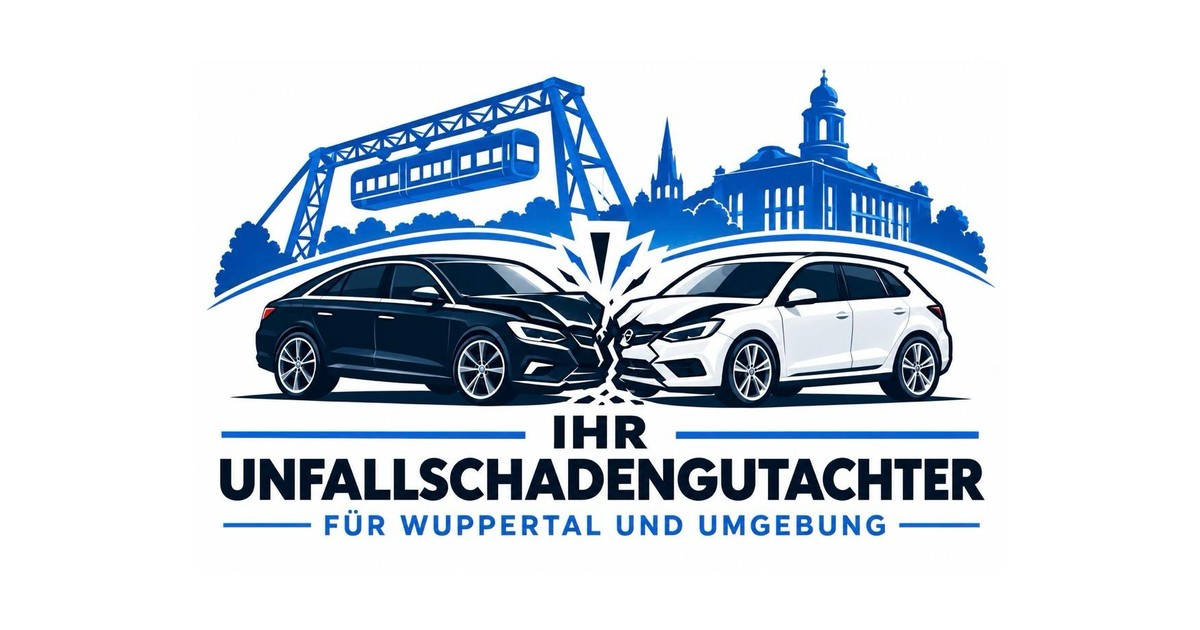
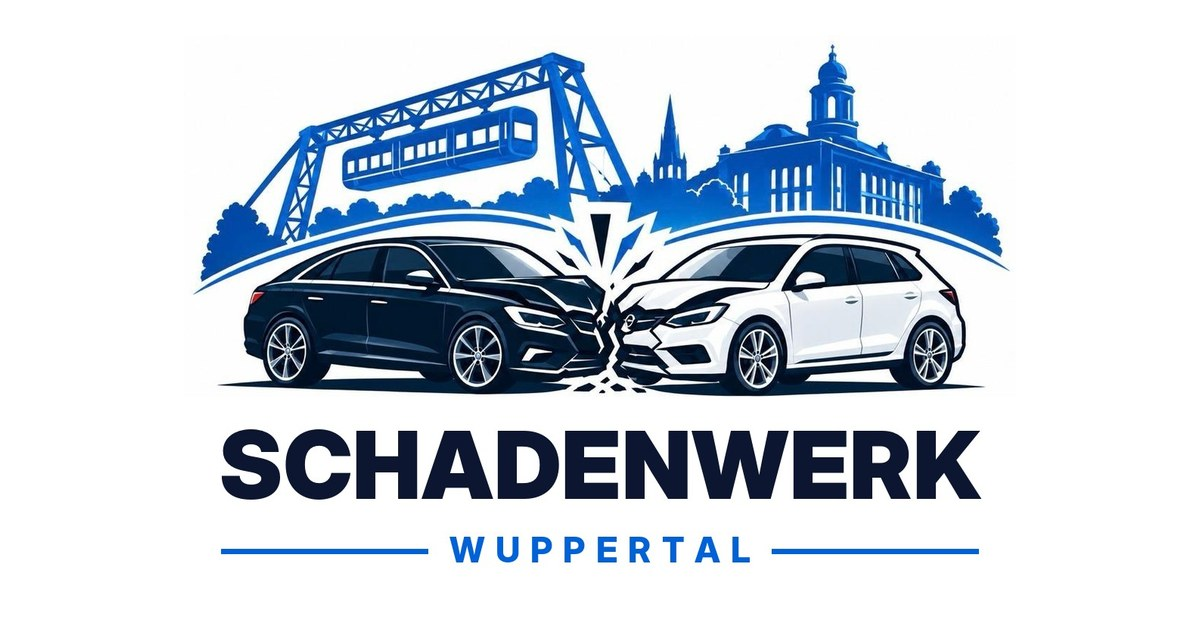
Rebrand to Schadenwerk Wuppertal and tighten content
- New logo with SCHADENWERK / WUPPERTAL wordmark, regenerated og-image
- Brand name in titles, header, footer, schema.org (logo, alternateName), manifest,
  llms.txt and legal pages; Stefan Schürmann stays as owner
- Hide placeholder reviews until real Google reviews exist
- Remove duplicate stats strip, drop meta keywords
- Place area map pins by real direction and distance from Wuppertal
- Make skip link usable (visible on keyboard focus)

Claude-Session: https://claude.ai/code/session_012dxYJcXa1b1C1BzBGQBLUm

Changed region(s): [[0.1542, 0.0603, 0.8325, 0.9048]]

diff --git a/index.html b/index.html
@@ -12,22 +12,21 @@
 })();
 </script>
 <meta name="viewport" content="width=device-width, initial-scale=1, viewport-fit=cover">
-<title>Kfz-Gutachter Wuppertal | Unabhängiges Unfallgutachten von Stefan Schürmann</title>
-<meta name="description" content="Unabhängiger Kfz-Sachverständiger für Wuppertal, Solingen, Remscheid, Velbert, Mettmann und die gesamte Umgebung. Unfallgutachten vor Ort, digital & schnell, plus Kostenvoranschlag (KVA) für Versicherungen. Bei unverschuldetem Unfall in der Regel kostenfrei für Sie.">
-<meta name="keywords" content="Kfz-Gutachter Wuppertal, Unfallgutachten Wuppertal, Kfz-Sachverständiger Wuppertal, unabhängiger Gutachter Unfall, Sachverständiger Solingen, Sachverständiger Remscheid, Kostenvoranschlag Versicherung KVA, Kfz-Sachverständiger Mettmann">
+<title>Schadenwerk Wuppertal | Unabhängiger Kfz-Gutachter für Unfallschäden</title>
+<meta name="description" content="Schadenwerk Wuppertal: unabhängiger Kfz-Sachverständiger für Wuppertal, Solingen, Remscheid, Velbert, Mettmann und die gesamte Umgebung. Unfallgutachten vor Ort, digital & schnell, plus Kostenvoranschlag (KVA) für Versicherungen. Bei unverschuldetem Unfall in der Regel kostenfrei für Sie.">
 <meta name="robots" content="index, follow, max-image-preview:large">
 <meta name="author" content="Stefan Schürmann">
 <link rel="canonical" href="https://schadenwerk-wuppertal.de/">
 
 <meta property="og:type" content="website">
-<meta property="og:site_name" content="Stefan Schürmann, Kfz-Sachverständiger">
-<meta property="og:title" content="Kfz-Gutachter Wuppertal | Unabhängiges Unfallgutachten">
+<meta property="og:site_name" content="Schadenwerk Wuppertal">
+<meta property="og:title" content="Schadenwerk Wuppertal | Unabhängiger Kfz-Gutachter">
 <meta property="og:description" content="Unabhängiger Kfz-Sachverständiger für Wuppertal und Umgebung. Schnell vor Ort, Gutachten digital, bei unverschuldetem Unfall in der Regel kostenfrei.">
 <meta property="og:url" content="https://schadenwerk-wuppertal.de/">
 <meta property="og:image" content="https://schadenwerk-wuppertal.de/assets/img/og-image.jpg">
 <meta property="og:locale" content="de_DE">
 <meta name="twitter:card" content="summary_large_image">
-<meta name="twitter:title" content="Kfz-Gutachter Wuppertal | Unabhängiges Unfallgutachten">
+<meta name="twitter:title" content="Schadenwerk Wuppertal | Unabhängiger Kfz-Gutachter">
 <meta name="twitter:image" content="https://schadenwerk-wuppertal.de/assets/img/og-image.jpg">
 <meta name="geo.region" content="DE-NW">
 <meta name="geo.placename" content="Wuppertal">
@@ -47,9 +46,11 @@
 {
   "@context": "https://schema.org",
   "@type": ["LocalBusiness", "AutomotiveBusiness"],
-  "name": "Stefan Schürmann, Kfz-Sachverständiger",
+  "name": "Schadenwerk Wuppertal",
+  "alternateName": "Schadenwerk Wuppertal, Kfz-Sachverständiger Stefan Schürmann",
   "description": "Unabhängiger Kfz-Sachverständiger mit 20 Jahren Kfz-Erfahrung. Unfallgutachten vor Ort bei Privatpersonen und Werkstätten in Wuppertal und Umgebung, digitale Gutachtenübermittlung.",
   "image": "https://schadenwerk-wuppertal.de/assets/img/og-image.jpg",
+  "logo": "https://schadenwerk-wuppertal.de/assets/img/logo-brand.jpg",
   "url": "https://schadenwerk-wuppertal.de/",
   "telephone": "+4915120474428",
   "email": "gutachten.wuppertal@yahoo.de",
@@ -85,7 +86,7 @@
 <body class="is-loading">
 
 <div class="preloader" aria-hidden="true">
-  <div class="preloader-mark"><span>Stefan Schürmann</span></div>
+  <div class="preloader-mark"><span>Schadenwerk</span></div>
   <div class="preloader-bar"><i></i></div>
 </div>
 
@@ -94,7 +95,7 @@
 <div class="cursor-dot"></div>
 <div class="cursor-ring"></div>
 
-<a href="#main" class="skip-link" style="position:absolute;left:-9999px;">Zum Inhalt springen</a>
+<a href="#main" class="skip-link">Zum Inhalt springen</a>
 
 <div class="topbar">
   <div class="container">
@@ -109,8 +110,8 @@
 <header class="site-header">
   <div class="container nav">
     <a href="#top" class="brand">
-      <img src="assets/img/logo-brand.jpg" alt="Logo Stefan Schürmann, Kfz-Sachverständiger" class="brand-logo" width="63" height="40">
-      <span>Stefan Schürmann<small>Kfz-Sachverständiger · Wuppertal</small></span>
+      <img src="assets/img/logo-brand.jpg" alt="Logo Schadenwerk Wuppertal" class="brand-logo" width="59" height="40">
+      <span>Schadenwerk<small>Kfz-Gutachten · Wuppertal</small></span>
     </a>
     <div class="nav-actions">
       <button class="theme-toggle" type="button" aria-label="Hell-/Dunkelmodus umschalten" aria-pressed="false">
@@ -148,7 +149,7 @@
     </div>
   </div>
   <div class="container nav-overlay-foot">
-    <span>© <span id="year">2026</span> Stefan Schürmann</span>
+    <span>© <span id="year2">2026</span> Schadenwerk Wuppertal</span>
     <span>Wuppertal &amp; Umgebung</span>
   </div>
 </div>
@@ -212,7 +213,7 @@
 <section class="car-showcase" id="showcase">
   <div class="container">
     <div class="head center" data-gsap style="margin-left:auto;margin-right:auto;">
-      <img class="brand-seal" src="assets/img/logo-brand.jpg" alt="Logo: Ihr Unfallschadengutachter für Wuppertal und Umgebung" width="280" height="178">
+      <img class="brand-seal" src="assets/img/logo-brand.jpg" alt="Logo Schadenwerk Wuppertal" width="280" height="188">
       <span class="tag" style="justify-content:center;">Der Ernstfall</span>
       <h2>Jeder Unfall hinterlässt Spuren.</h2>
       <p style="margin-left:auto;margin-right:auto;">Genau in diesem Moment beginnt meine Arbeit: jede Schadensstelle unabhängig dokumentieren und markieren, bis ins Detail. Scrollen Sie weiter.</p>
@@ -281,18 +282,6 @@
         <h3>KVA für Versicherungen</h3>
         <p>Kostenvoranschlag für Versicherungen bei kleineren Schäden, schnell und nachvollziehbar kalkuliert.</p>
       </div>
-    </div>
-  </div>
-</section>
-
-<!-- ===== Stats ===== -->
-<section class="section-tight section-line">
-  <div class="container">
-    <div class="stats-strip">
-      <div class="stat" data-gsap style="--delay:0s"><div class="num"><span data-counter="20">0</span>+</div><p>Jahre Erfahrung im Kfz-Bereich</p></div>
-      <div class="stat" data-gsap><div class="num"><span data-counter="100">0</span>%</div><p>Unabhängig &amp; neutral</p></div>
-      <div class="stat" data-gsap><div class="num"><span data-counter="14">0</span></div><p>Städte im Einsatzgebiet</p></div>
-      <div class="stat" data-gsap><div class="num"><span data-counter="24">0</span>h</div><p>meist schnelle Rückmeldung</p></div>
     </div>
   </div>
 </section>
@@ -411,7 +400,7 @@
     <div class="about-copy" data-gsap="right">
       <span class="tag">Über mich</span>
       <h2 style="font-family:var(--font-display);font-weight:600;font-size:clamp(2rem,3.6vw,2.8rem);line-height:1.14;letter-spacing:-0.02em;margin-bottom:24px;">Seit 20 Jahren im Kfz-Bereich zu Hause.</h2>
-      <p>Ich bin Stefan Schürmann und seit 20 Jahren im Kfz-Bereich tätig. Mit diesem Wissen mache ich mich jetzt als unabhängiger Kfz-Sachverständiger selbstständig, mit dem klaren Ziel, Privatpersonen, Werkstätten und Kanzleien in Wuppertal und Umgebung einen schnellen, unkomplizierten und persönlichen Gutachterservice zu bieten.</p>
+      <p>Ich bin Stefan Schürmann, Inhaber von Schadenwerk Wuppertal, und seit 20 Jahren im Kfz-Bereich tätig. Mit diesem Wissen bin ich jetzt als unabhängiger Kfz-Sachverständiger selbstständig, mit dem klaren Ziel, Privatpersonen, Werkstätten und Kanzleien in Wuppertal und Umgebung einen schnellen, unkomplizierten und persönlichen Gutachterservice zu bieten.</p>
       <p>Mir ist wichtig, dass Sie sich um möglichst wenig selbst kümmern müssen: Ich komme zur Werkstatt oder direkt zu Ihnen, übernehme die vollständige Besichtigung und liefere das fertige Gutachten digital.</p>
       <ul class="about-points">
         <li><svg width="18" height="18" viewBox="0 0 24 24" fill="none" stroke="currentColor" stroke-width="2.5"><polyline points="20 6 9 17 4 12"/></svg> 20 Jahre Kfz-Erfahrung</li>
@@ -451,25 +440,26 @@
     <div class="area-map" data-gsap="right">
       <div class="area-ring"></div><div class="area-ring r2"></div><div class="area-ring r3"></div>
       <div class="area-center">Wuppertal<span>Basis</span></div>
-      <span class="area-pin area-pin-near" style="top:27%;left:50%;">Velbert</span>
-      <span class="area-pin area-pin-near" style="top:39%;left:70%;">Schwelm</span>
-      <span class="area-pin area-pin-near" style="top:62%;left:70%;">Remscheid</span>
-      <span class="area-pin area-pin-near" style="top:73%;left:50%;">Haan</span>
-      <span class="area-pin area-pin-near" style="top:62%;left:30%;">Sprockhövel</span>
-      <span class="area-pin area-pin-near" style="top:39%;left:30%;">Wülfrath</span>
-      <span class="area-pin area-pin-far" style="top:17%;left:66%;">Solingen</span>
-      <span class="area-pin area-pin-far" style="top:42%;left:86%;">Hilden</span>
-      <span class="area-pin area-pin-far" style="top:73%;left:79%;">Mettmann</span>
-      <span class="area-pin area-pin-far" style="top:87%;left:50%;">Heiligenhaus</span>
-      <span class="area-pin area-pin-far" style="top:73%;left:21%;">Radevormwald</span>
-      <span class="area-pin area-pin-far" style="top:42%;left:14%;">Hattingen</span>
-      <span class="area-pin area-pin-far" style="top:17%;left:34%;">Leverkusen</span>
+      <span class="area-pin area-pin-near" style="top:22%;left:36%;">Velbert</span>
+      <span class="area-pin area-pin-near" style="top:40%;left:26%;">Wülfrath</span>
+      <span class="area-pin area-pin-near" style="top:52%;left:16%;">Mettmann</span>
+      <span class="area-pin area-pin-near" style="top:62%;left:30%;">Haan</span>
+      <span class="area-pin area-pin-near" style="top:76%;left:40%;">Solingen</span>
+      <span class="area-pin area-pin-near" style="top:72%;left:60%;">Remscheid</span>
+      <span class="area-pin area-pin-near" style="top:42%;left:76%;">Schwelm</span>
+      <span class="area-pin area-pin-far" style="top:12%;left:54%;">Hattingen</span>
+      <span class="area-pin area-pin-far" style="top:22%;left:70%;">Sprockhövel</span>
+      <span class="area-pin area-pin-far" style="top:26%;left:18%;">Heiligenhaus</span>
+      <span class="area-pin area-pin-far" style="top:74%;left:14%;">Hilden</span>
+      <span class="area-pin area-pin-far" style="top:92%;left:30%;">Leverkusen</span>
+      <span class="area-pin area-pin-far" style="top:64%;left:82%;">Radevormwald</span>
     </div>
   </div>
 </section>
 
 <!-- ===== Reviews ===== -->
-<section id="bewertungen" class="section-line">
+<!-- Bewertungen: bis echte Google-Rezensionen vorliegen ausgeblendet (hidden entfernen zum Einblenden) -->
+<section id="bewertungen" class="section-line" hidden>
   <div class="container">
     <div class="head center" style="margin-left:auto;margin-right:auto;" data-gsap>
       <span class="tag" style="justify-content:center;">Bewertungen</span>
@@ -595,15 +585,15 @@
     </div>
     <div class="footer-grid">
       <div>
-        <div class="footer-brand"><img src="assets/img/logo-brand.jpg" alt="Logo Stefan Schürmann, Kfz-Sachverständiger" class="brand-logo">Stefan Schürmann</div>
-        <p style="color:var(--muted);max-width:260px;line-height:1.7;">Unabhängiger Kfz-Sachverständiger für Wuppertal und Umgebung.</p>
+        <div class="footer-brand"><img src="assets/img/logo-brand.jpg" alt="Logo Schadenwerk Wuppertal" class="brand-logo">Schadenwerk Wuppertal</div>
+        <p style="color:var(--muted);max-width:260px;line-height:1.7;">Unabhängige Kfz-Gutachten nach Unfallschäden für Wuppertal und Umgebung. Inhaber: Stefan Schürmann.</p>
       </div>
       <div class="footer-col"><h4>Leistungen</h4><ul><li><a href="#leistungen">Unfallgutachten</a></li><li><a href="#ablauf">Ablauf</a></li><li><a href="#zielgruppen">Zielgruppen</a></li></ul></div>
       <div class="footer-col"><h4>Unternehmen</h4><ul><li><a href="#ueber-mich">Über mich</a></li><li><a href="#einsatzgebiet">Einsatzgebiet</a></li><li><a href="#kontakt">Kontakt</a></li></ul></div>
       <div class="footer-col"><h4>Rechtliches</h4><ul><li><a href="impressum.html">Impressum</a></li><li><a href="datenschutz.html">Datenschutz</a></li></ul></div>
     </div>
     <div class="footer-bottom">
-      <span>© <span id="year">2026</span> Stefan Schürmann, Kfz-Sachverständiger</span>
+      <span>© <span id="year">2026</span> Schadenwerk Wuppertal · Inh. Stefan Schürmann</span>
       <span>Wuppertal &amp; Umgebung</span>
       <span class="footer-credit">Powered by Wasteland Interactive</span>
     </div>

diff --git a/datenschutz.html b/datenschutz.html
@@ -3,7 +3,7 @@
 <head>
 <meta charset="UTF-8">
 <meta name="viewport" content="width=device-width, initial-scale=1">
-<title>Datenschutzerklärung | Stefan Schürmann, Kfz-Sachverständiger</title>
+<title>Datenschutzerklärung | Schadenwerk Wuppertal</title>
 <meta name="robots" content="noindex, follow">
 <link rel="canonical" href="https://schadenwerk-wuppertal.de/datenschutz.html">
 <link rel="icon" href="assets/img/favicon-32.png" sizes="32x32" type="image/png">
@@ -15,8 +15,8 @@
 <header class="site-header is-scrolled">
   <div class="container nav">
     <a href="index.html" class="brand">
-      <img src="assets/img/logo-brand.jpg" alt="Logo Stefan Schürmann, Kfz-Sachverständiger" class="brand-logo" width="63" height="40">
-      <span>Stefan Schürmann<small>Kfz-Sachverständiger · Wuppertal</small></span>
+      <img src="assets/img/logo-brand.jpg" alt="Logo Schadenwerk Wuppertal" class="brand-logo" width="59" height="40">
+      <span>Schadenwerk<small>Kfz-Gutachten · Wuppertal</small></span>
     </a>
     <div class="nav-actions">
       <span class="magnetic-wrap"><a href="tel:+4915120474428" class="btn btn-line btn-sm">Jetzt anrufen</a></span>
@@ -33,7 +33,7 @@
   <div class="legal-body container">
     <div class="legal-content">
       <h2>1. Verantwortlicher</h2>
-      <p>Stefan Schürmann<br><span class="legal-placeholder">Straße und Hausnummer einfügen</span><br><span class="legal-placeholder">PLZ</span> Wuppertal<br>E-Mail: <a href="mailto:gutachten.wuppertal@yahoo.de">gutachten.wuppertal@yahoo.de</a><br>Telefon: <a href="tel:+4915120474428">+49 151 20474428</a></p>
+      <p>Schadenwerk Wuppertal<br>Inhaber: Stefan Schürmann<br><span class="legal-placeholder">Straße und Hausnummer einfügen</span><br><span class="legal-placeholder">PLZ</span> Wuppertal<br>E-Mail: <a href="mailto:gutachten.wuppertal@yahoo.de">gutachten.wuppertal@yahoo.de</a><br>Telefon: <a href="tel:+4915120474428">+49 151 20474428</a></p>
 
       <h2>2. Hosting</h2>
       <p>Diese Website wird auf einem eigenen Server betrieben. Beim Aufruf der Website verarbeitet der Webserver automatisch technische Zugriffsdaten (IP-Adresse, Datum und Uhrzeit, aufgerufene Seite, Browser-Kennung) in Server-Logfiles. Die IP-Adresse wird dabei nur gekürzt (anonymisiert) gespeichert. Dies dient dem sicheren und stabilen Betrieb auf Grundlage unseres berechtigten Interesses (Art. 6 Abs. 1 lit. f DSGVO). Die Logfiles werden regelmäßig automatisch überschrieben. <span class="legal-placeholder">Name und Anschrift des Rechenzentrums/Server-Anbieters ergänzen.</span></p>
@@ -65,7 +65,7 @@
 
 <footer class="site-footer" style="padding-top:0;">
   <div class="container footer-bottom">
-    <span>© <span id="year">2026</span> Stefan Schürmann</span>
+    <span>© <span id="year">2026</span> Schadenwerk Wuppertal</span>
     <span><a href="index.html">Zur Startseite</a> · <a href="impressum.html">Impressum</a></span>
     <span class="footer-credit">Powered by Wasteland Interactive</span>
   </div>

diff --git a/impressum.html b/impressum.html
@@ -3,7 +3,7 @@
 <head>
 <meta charset="UTF-8">
 <meta name="viewport" content="width=device-width, initial-scale=1">
-<title>Impressum | Stefan Schürmann, Kfz-Sachverständiger</title>
+<title>Impressum | Schadenwerk Wuppertal</title>
 <meta name="robots" content="noindex, follow">
 <link rel="canonical" href="https://schadenwerk-wuppertal.de/impressum.html">
 <link rel="icon" href="assets/img/favicon-32.png" sizes="32x32" type="image/png">
@@ -15,8 +15,8 @@
 <header class="site-header is-scrolled">
   <div class="container nav">
     <a href="index.html" class="brand">
-      <img src="assets/img/logo-brand.jpg" alt="Logo Stefan Schürmann, Kfz-Sachverständiger" class="brand-logo" width="63" height="40">
-      <span>Stefan Schürmann<small>Kfz-Sachverständiger · Wuppertal</small></span>
+      <img src="assets/img/logo-brand.jpg" alt="Logo Schadenwerk Wuppertal" class="brand-logo" width="59" height="40">
+      <span>Schadenwerk<small>Kfz-Gutachten · Wuppertal</small></span>
     </a>
     <div class="nav-actions">
       <span class="magnetic-wrap"><a href="tel:+4915120474428" class="btn btn-line btn-sm">Jetzt anrufen</a></span>
@@ -33,7 +33,7 @@
   <div class="legal-body container">
     <div class="legal-content">
       <h2>Diensteanbieter</h2>
-      <p>Stefan Schürmann<br>Kfz-Sachverständigenbüro <span class="legal-placeholder">Rechtsform ergänzen</span><br><span class="legal-placeholder">Straße und Hausnummer einfügen</span><br><span class="legal-placeholder">PLZ</span> Wuppertal<br>Deutschland</p>
+      <p>Schadenwerk Wuppertal<br>Inhaber: Stefan Schürmann <span class="legal-placeholder">Rechtsform ergänzen</span><br><span class="legal-placeholder">Straße und Hausnummer einfügen</span><br><span class="legal-placeholder">PLZ</span> Wuppertal<br>Deutschland</p>
 
       <h2>Kontakt</h2>
       <p>Telefon: <a href="tel:+4915120474428">+49 151 20474428</a><br>E-Mail: <a href="mailto:gutachten.wuppertal@yahoo.de">gutachten.wuppertal@yahoo.de</a></p>
@@ -61,7 +61,7 @@
 
 <footer class="site-footer" style="padding-top:0;">
   <div class="container footer-bottom">
-    <span>© <span id="year">2026</span> Stefan Schürmann</span>
+    <span>© <span id="year">2026</span> Schadenwerk Wuppertal</span>
     <span><a href="index.html">Zur Startseite</a> · <a href="datenschutz.html">Datenschutz</a></span>
     <span class="footer-credit">Powered by Wasteland Interactive</span>
   </div>

diff --git a/404.html b/404.html
@@ -3,7 +3,7 @@
 <head>
 <meta charset="UTF-8">
 <meta name="viewport" content="width=device-width, initial-scale=1">
-<title>Seite nicht gefunden | Stefan Schürmann, Kfz-Sachverständiger</title>
+<title>Seite nicht gefunden | Schadenwerk Wuppertal</title>
 <meta name="robots" content="noindex">
 <link rel="icon" href="/assets/img/favicon-32.png" sizes="32x32" type="image/png">
 <link rel="stylesheet" href="/css/fonts.css">
@@ -14,8 +14,8 @@
 <header class="site-header is-scrolled">
   <div class="container nav">
     <a href="/" class="brand">
-      <img src="/assets/img/logo-brand.jpg" alt="Logo Stefan Schürmann, Kfz-Sachverständiger" class="brand-logo" width="63" height="40">
-      <span>Stefan Schürmann<small>Kfz-Sachverständiger · Wuppertal</small></span>
+      <img src="/assets/img/logo-brand.jpg" alt="Logo Schadenwerk Wuppertal" class="brand-logo" width="59" height="40">
+      <span>Schadenwerk<small>Kfz-Gutachten · Wuppertal</small></span>
     </a>
     <div class="nav-actions">
       <span class="magnetic-wrap"><a href="tel:+4915120474428" class="btn btn-line btn-sm">Jetzt anrufen</a></span>
@@ -38,7 +38,7 @@
 
 <footer class="site-footer" style="padding-top:0;">
   <div class="container footer-bottom">
-    <span>© Stefan Schürmann</span>
+    <span>© Schadenwerk Wuppertal</span>
     <span><a href="/impressum.html">Impressum</a> · <a href="/datenschutz.html">Datenschutz</a></span>
     <span class="footer-credit">Powered by Wasteland Interactive</span>
   </div>

diff --git a/js/main.js b/js/main.js
@@ -1,5 +1,5 @@
 /* ==========================================================================
-   Stefan Schürmann – Kfz-Sachverständiger — v2 "Agency" Edition
+   Schadenwerk Wuppertal — v2 "Agency" Edition
    Powered by GSAP + ScrollTrigger + Lenis (self-hosted in assets/vendor/)
    ========================================================================== */
 
@@ -500,8 +500,7 @@
   /* --------------------------------------------------------------------
      Back to top / footer year
      -------------------------------------------------------------------- */
-  const yearEl = document.querySelector("#year");
-  if (yearEl) yearEl.textContent = new Date().getFullYear();
+  document.querySelectorAll("#year, #year2").forEach((el) => { el.textContent = new Date().getFullYear(); });
 
   document.body.classList.add("is-loading");
 })();

diff --git a/css/style.css b/css/style.css
@@ -1408,3 +1408,12 @@ html.force-no-motion [data-gsap-item] {
 }
 html.force-no-motion .process-track { transform: none !important; }
 html.force-no-motion .area-pin { transform: translate(-50%, -50%) scale(1) !important; }
+
+/* Skip-Link: unsichtbar, erscheint bei Tastaturfokus */
+.skip-link {
+  position: absolute; left: 16px; top: -100px; z-index: 10000;
+  padding: 12px 18px; border-radius: 10px;
+  background: var(--accent); color: #fff; font-weight: 600; text-decoration: none;
+  transition: top 0.2s;
+}
+.skip-link:focus { top: 16px; }
